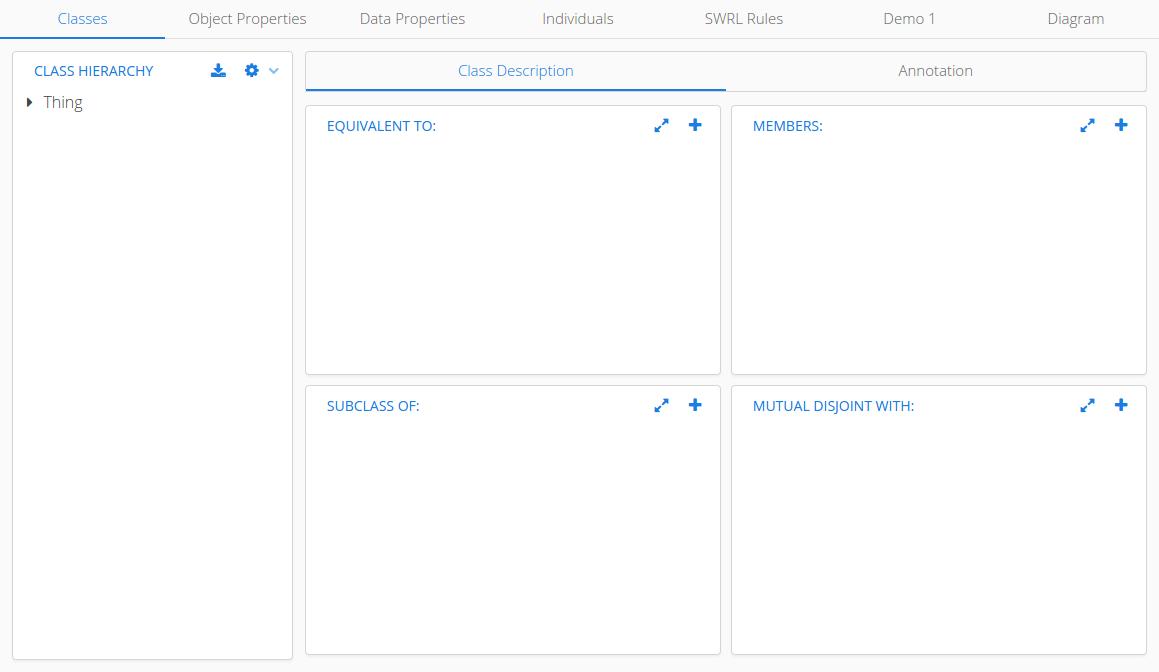
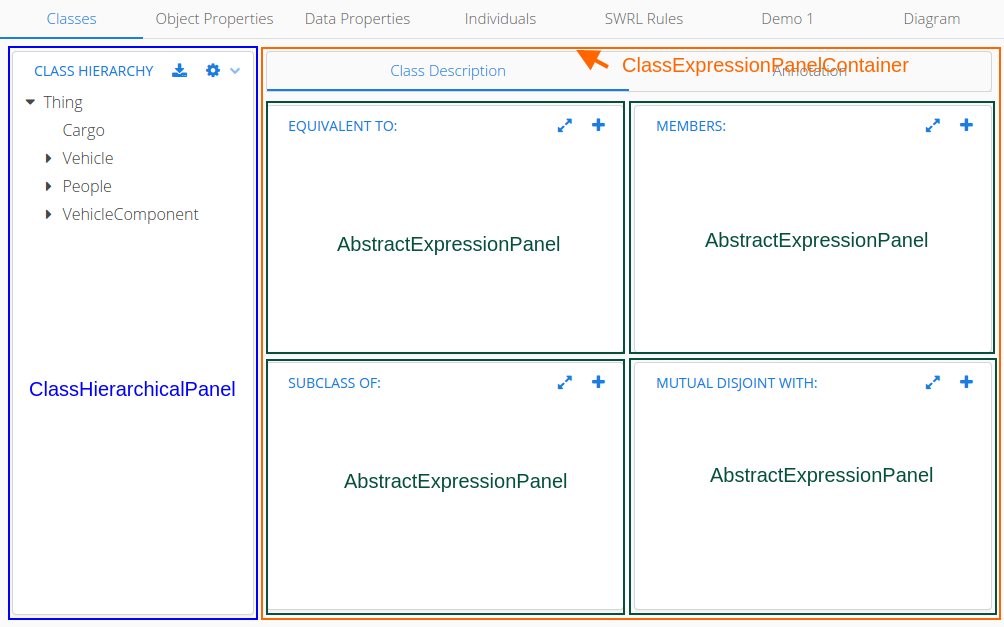
write classSheet

diff --git a/Chapters/xaydunghethong.tex b/Chapters/xaydunghethong.tex
@@ -108,4 +108,34 @@ UI.getCurrent().setContent(new MainView());
 \end{verbatim}
 
 \section{Xây dựng MainView}
-Trong thiết kế \textit{Main}
+Trong thiết kế \textit{MainView} sẽ là nơi chứa tất cả các Tab của ứng dụng, các tab này được xây dựng dựa trên thành phần \textit{TabSheet} của Vaadin, mỗi tab đều có thể là bất cứ thành phần giao diện nào của Vaadin (UIComponent và Layout của Vaadin đều có chung Interface \textit{Component}). Do vậy, nội dung của MainView khá đơn giản:
+\begin{verbatim}
+public class MainView extends HorizontalLayout {
+  final TabSheet root = new TabSheet();
+  public MainView() {
+    root.addTab(new ClassesSheet(), "Classes");
+    addComponent(root); // Thêm TabSheet vào layout của MainView;
+    ...}
+} 
+\end{verbatim}
+\subsection{Xây dựng Tab dùng mô tả lớp, thuộc tính đối tượng/dữ liệu và cá thể}
+Do bố cục phần lần các thành phần trong các Tab này cũng tương đối giống nhau, nên chúng em chỉ xin lấy Tab Class (lớp) ra trình bày chi tiết, còn những tab còn lại chúng em chỉ xin trình bày những thành phần khác của chúng so với Tab Class.
+\subsubsection{ClassSheet}
+Đây là lớp chúng em dùng để tổ chức các thành phần giao diện dành để tương tác với các lớp trong OWL 2 Ontology.
+\begin{figure}[h!]
+	\centering
+	\frame{\includegraphics[width=155mm]{Figures/owleditor_mainview.png}}
+	\caption{ClassSheet(Tab dành cho lớp) đã xây dựng\label{overflow}}
+\end{figure}
+{\let\thefootnote\relax\footnotetext{
+		Lưu ý:  \textit{ClassHierarchicalPanel}, \textit{ObjectPropertyHierachicalPanel} và \textit{DataPropertyHierarchicalPanel} đều kế thừa từ \textit{AbstractHierarchyPanel}.
+}}
+Ở bên trái là một Panel gọi là \textit{ClassHierarchicalPanel} mở rộng từ \textit{AbstractHierarchyPanel} \textsuperscript{*} được chúng em xây dựng với mục tiêu là biểu diễn các lớp trong OWL 2 Ontology, và cho phép thực hiện các thao tác thêm lớp con, lớp cùng họ (sibling) và xóa lớp bằng cách click phải vào bất kì node nào trên cây. Ở góc phải bên trên của panel này, với kí hiệu bánh răng với chức năng thêm xóa tương tự, ngoài ra còn có tính năng bật reasoner cho hệ thống. Kế bên kí hiệu bánh răng, là một kí hiệu tải xuống, khi click sẽ lưu lại trạng thái ontology hiện hành và tải xuống dưới định dạng OWL/XML.
+\\
+Bên trong \textit{ClassHierarchicalPanel} có thành phần \textit{Tree} đây chính là thành phần sẽ liên kết với dữ liệu từ các \textit{HiearchicalContainer} được giới thiệu trong mục tổ chức dữ liệu ở chương trước, ở đây cụ thể nó sẽ liên kết với các \textit{ClassHierarchicalContainer} - chứa các lớp trong ontology với cấu trúc phân cấp. Nếu đúng như trong thiết kế thì chúng em sẽ sử dụng EventBus để xử lý các sự kiện thêm/xóa lớp ở đây, tuy nhiên sau khi xây dựng xong chúng em gặp phải vấn đề về con-current event - nghĩa khi thực hiện thao tác thêm/xóa sẽ có 2 event giống nhau được tạo ra và truyền lên EventBus. Do vẫn chưa tìm được nguyên nhân chính xác, nên chúng em đã qua về với thiết kế truyền thống của Java là tạo một interface \textit{OWLEntityActionHandler} vào áp dụng nó vào thành phần \textit{Tree}. Thiết kế này yêu cầu các đối tượng giao tiếp các sự kiện với nhau phải biết nhau.
+\begin{figure}[h!]
+	\centering
+	\includegraphics[width=155mm]{Figures/uml_owlclasstree.png}
+	\caption{Cây OWLClassTree hiển thi các lớp trong Ontology trong ClassSheet \label{overflow}}
+\end{figure}
+
